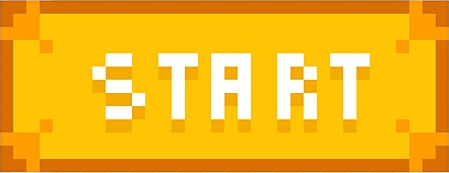
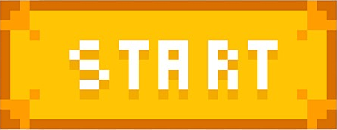
Dodanie planszy gry po wcisnieciu start

diff --git a/pacman.py b/pacman.py
@@ -3,6 +3,7 @@ import pygame, os
 pygame.init()
 
 window_open = True
+# wymiary okna
 WIDTH = 1280
 HEIGHT = 720
 
@@ -14,26 +15,28 @@ image_path = os.path.join(current_dir, 'Menu_background.jpg')
 
 
 
-# otwieranie okienka o rozdzielczości 640x840
+# otwieranie okienka
 screen = pygame.display.set_mode((WIDTH, HEIGHT), 0, 32)
 # To się wyświetla na górze jako nazwa programu
 pygame.display.set_caption("Pacman")
-# wypełnia ekran na podany kolor rgb (w tym wypadku czarny)
+
+# podkłada grafikę do tła i przycisku
 background_image = pygame.image.load(image_path).convert()
 image_path = os.path.join(current_dir, 'Start_button.png')
 button_image = pygame.image.load(image_path).convert()
 
 # Ustalenie pozycji przycisku
-button_x = 440
-button_y = 400
-button_width = 200
-button_height = 50
+button_x = 471.5
+button_y = 500
+button_width = 337
+button_height = 130
 
 # Utworzenie przycisku
 button_rect = pygame.Rect(button_x, button_y, button_width, button_height)
 
 
 screen.fill((0, 0, 0))
+is_game_running = False
 
 while window_open:
     # wyłączanie gry
@@ -43,12 +46,28 @@ while window_open:
                 window_open = False
         elif event.type == pygame.QUIT:
             window_open = False
+
+        if event.type == pygame.MOUSEBUTTONDOWN:
+            mouse_pos = pygame.mouse.get_pos()
+            if button_rect.collidepoint(mouse_pos):
+                is_game_running = True
+
+    
     
     screen.fill((255, 255, 255))  # Czyszczenie ekranu
-     # Rysowanie na ekranie
+    
+    # Rysowanie na ekranie
     screen.blit(background_image, (0, 0))  # Wyświetlanie obrazka tła
     screen.blit(button_image, button_rect)  # Wyświetlanie obrazka na przycisku
 
+
+    if is_game_running:
+        # Renderowanie planszy gry
+
+        # Ustawienie koloru tła na czerwony
+        screen.fill((255, 0, 0))
+    
+        # Renderowanie ekranu startowego
 
     # Aktualizacja ekranu
     pygame.display.flip()
